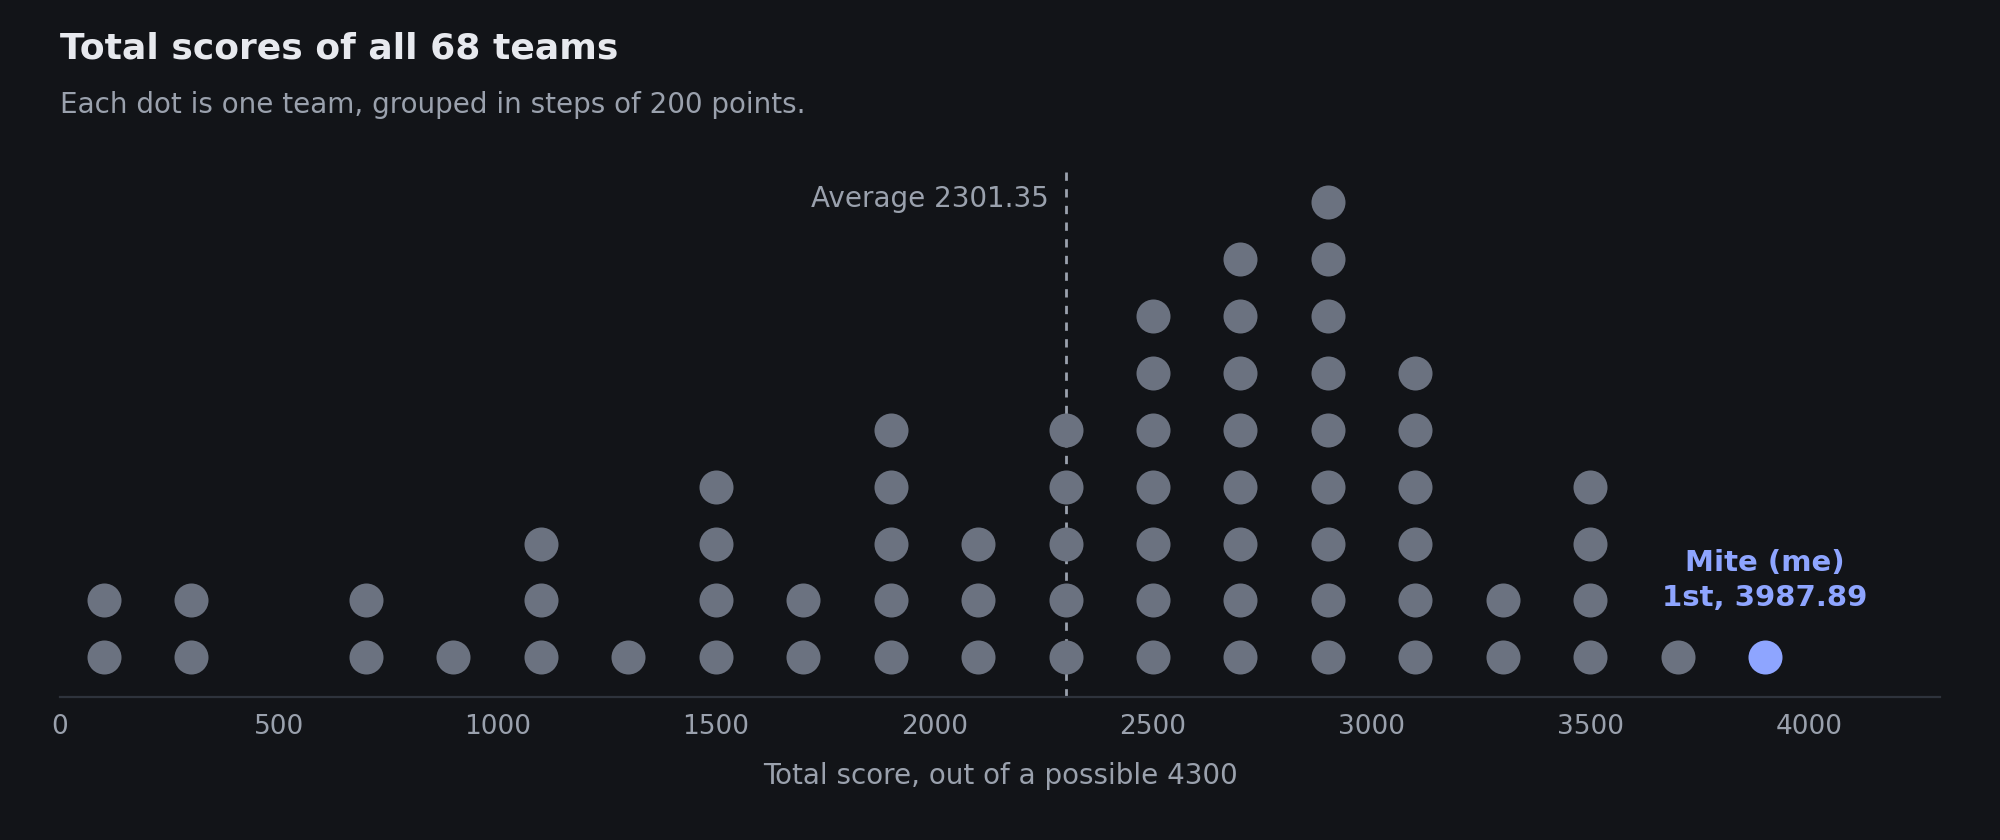
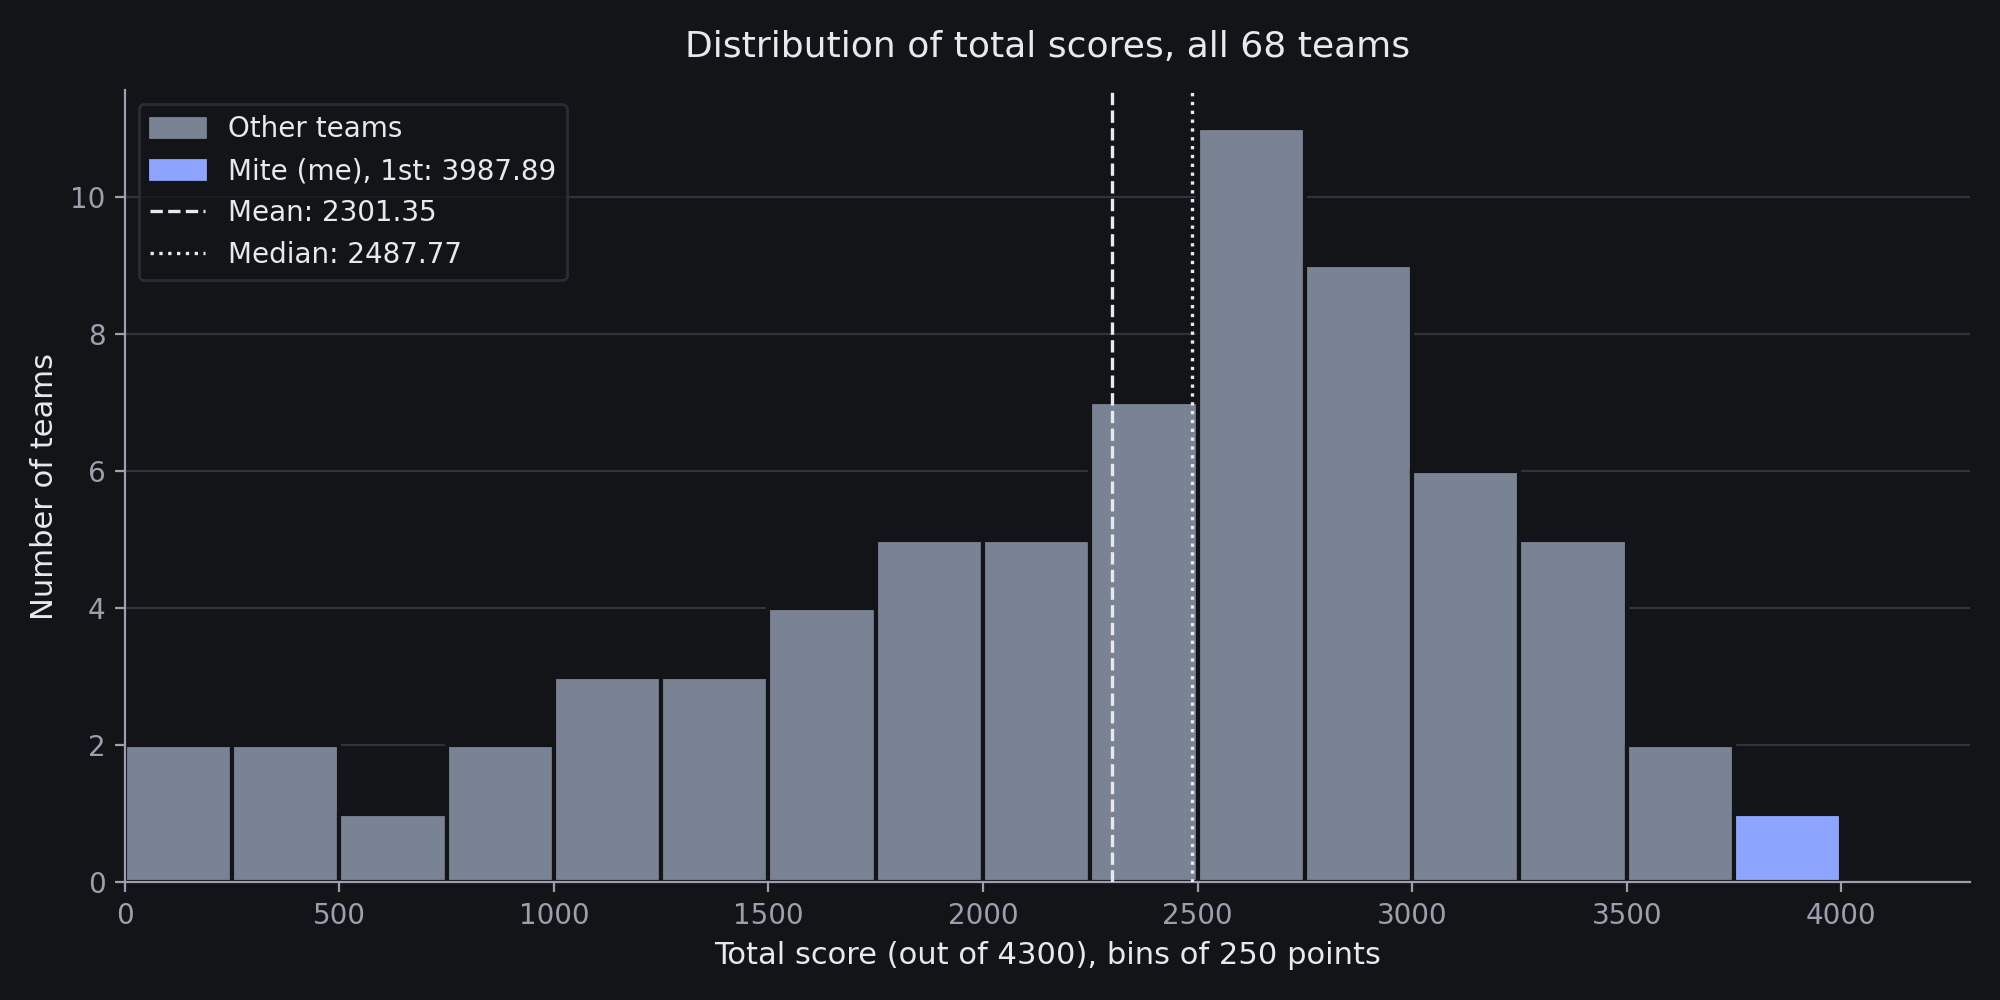
Score distribution as a standard histogram

diff --git a/tools/score-distribution.py b/tools/score-distribution.py
@@ -1,12 +1,16 @@
 #!/usr/bin/env python3
-"""Draw img/scores.png: every team's total from the final leaderboard, one dot per team.
+"""Draw img/scores.png: a histogram of every team's total from the final leaderboard.
 
 Totals transcribed from the leaderboard photo (img/leaderboard.jpg), in rank order. Their mean, 2301.35, matches the
 average the leaderboard showed.
 """
+import statistics
+
 import matplotlib
 matplotlib.use("Agg")
 import matplotlib.pyplot as plt
+from matplotlib.patches import Patch
+from matplotlib.ticker import MaxNLocator
 
 TOTALS = [
     3987.89, 3636.04, 3590.67, 3466.88, 3433.81, 3428.61, 3394.79, 3321.44, 3174.02, 3167.09, 3164.87, 3136.90,
@@ -18,40 +22,40 @@ TOTALS = [
 ]
 assert len(TOTALS) == 68 and round(sum(TOTALS) / 68, 2) == 2301.35
 
-BG, INK, MUTED, RULE, DOT, ACCENT = "#121418", "#e7e9ee", "#9aa1ad", "#2e333c", "#6b7280", "#8ea5ff"
-BIN, MAX = 200, 4300
+BG, INK, MUTED, GRID, BAR, ACCENT = "#121418", "#e7e9ee", "#9aa1ad", "#2e333c", "#7a8394", "#8ea5ff"
+WIDTH, MAX = 250, 4300
+mean, median, mite = statistics.mean(TOTALS), statistics.median(TOTALS), TOTALS[0]
 
-# Stack the dots in each 200 point bin, lowest score at the bottom
-height = {}
-xs, ys = [], []
-for t in sorted(TOTALS):
-    b = int(t // BIN)
-    height[b] = height.get(b, 0) + 1
-    xs.append(b * BIN + BIN / 2)
-    ys.append(height[b])
-
-fig, ax = plt.subplots(figsize=(10, 4.2), dpi=200)
+plt.rcParams.update({"text.color": INK, "axes.labelcolor": INK, "xtick.color": MUTED, "ytick.color": MUTED})
+fig, ax = plt.subplots(figsize=(10, 5), dpi=200)
 fig.patch.set_facecolor(BG)
 ax.set_facecolor(BG)
-ax.scatter(xs[:-1], ys[:-1], s=150, color=DOT, linewidths=0, zorder=2)
-ax.scatter(xs[-1], ys[-1], s=150, color=ACCENT, linewidths=0, zorder=3)  # the top score is last after sorting
 
-mean = sum(TOTALS) / len(TOTALS)
-ax.axvline(mean, color=MUTED, lw=1, ls=(0, (3, 3)), zorder=1)
-ax.text(mean - 40, 9.3, f"Average {mean:.2f}", color=MUTED, fontsize=10, va="top", ha="right")
-ax.text(xs[-1], ys[-1] + 0.8, "Mite (me)\n1st, 3987.89", color=ACCENT, fontsize=10.5, fontweight="bold",
-        ha="center", va="bottom", linespacing=1.3)
+edges = list(range(0, MAX + WIDTH, WIDTH))
+_, _, bars = ax.hist(TOTALS, bins=edges, color=BAR, edgecolor=BG, linewidth=1.5, zorder=2)
+for bar in bars:
+    if bar.get_x() <= mite < bar.get_x() + WIDTH:
+        bar.set_facecolor(ACCENT)  # the bin holding Mite's score, which no other team reached
+
+ax.axvline(mean, color=INK, lw=1.2, ls="--", zorder=3)
+ax.axvline(median, color=INK, lw=1.2, ls=":", zorder=3)
+ax.legend(handles=[
+    Patch(color=BAR, label="Other teams"),
+    Patch(color=ACCENT, label=f"Mite (me), 1st: {mite:.2f}"),
+    plt.Line2D([], [], color=INK, lw=1.2, ls="--", label=f"Mean: {mean:.2f}"),
+    plt.Line2D([], [], color=INK, lw=1.2, ls=":", label=f"Median: {median:.2f}"),
+], loc="upper left", frameon=True, facecolor=BG, edgecolor=GRID, labelcolor=INK, fontsize=10)
 
 ax.set_xlim(0, MAX)
-ax.set_ylim(0.3, 9.6)
 ax.set_xticks(range(0, MAX + 1, 500))
-ax.set_yticks([])
-ax.tick_params(colors=MUTED, labelsize=9.5, length=0, pad=6)
-for side in ("top", "right", "left"):
+ax.yaxis.set_major_locator(MaxNLocator(integer=True))
+ax.grid(axis="y", color=GRID, lw=0.8, zorder=0)
+for side in ("top", "right"):
     ax.spines[side].set_visible(False)
-ax.spines["bottom"].set_color(RULE)
-ax.set_xlabel("Total score, out of a possible 4300", color=MUTED, fontsize=10, labelpad=8)
-fig.text(0.03, 0.93, "Total scores of all 68 teams", color=INK, fontsize=13, fontweight="bold")
-fig.text(0.03, 0.865, "Each dot is one team, grouped in steps of 200 points.", color=MUTED, fontsize=10)
-fig.subplots_adjust(left=0.03, right=0.97, top=0.8, bottom=0.17)
+for side in ("left", "bottom"):
+    ax.spines[side].set_color(MUTED)
+ax.set_xlabel(f"Total score (out of {MAX}), bins of {WIDTH} points", fontsize=11)
+ax.set_ylabel("Number of teams", fontsize=11)
+ax.set_title("Distribution of total scores, all 68 teams", fontsize=13, pad=12)
+fig.tight_layout()
 fig.savefig("img/scores.png", facecolor=BG)

diff --git a/README.md b/README.md
@@ -6,8 +6,8 @@ for two hours on HackerRank: four optimisation problems and a bonus.
 
 ![The final leaderboard on the screen at the event, with Mite first on 3987.89](img/leaderboard.jpg)
 
-![Dot plot of all 68 team totals: 30 teams scored between 2400 and 3200, the average was 2301.35, second place had
-3636.04 and Mite had 3987.89](img/scores.png)
+![Histogram of all 68 team totals in bins of 250 points: mean 2301.35, median 2487.77, the largest bin 2500 to 2750
+with 11 teams, and Mite alone in the 3750 to 4000 bin with 3987.89](img/scores.png)
 
 I wrote very little of the code by hand. Instead I was typing for the whole two hours, steering the AI agents that
 wrote it. For each problem I told them how I thought it should be approached and gave them my intuition for the best
@@ -232,7 +232,7 @@ tools/capture.py     recover inputs that a submission echoed to stderr
 tools/score-distribution.py  draw img/scores.png from the leaderboard totals
 LINKEDIN.md          draft posts
 img/leaderboard.jpg  photo of the final leaderboard at the event
-img/scores.png       every team's total as a dot plot
+img/scores.png       histogram of every team's total
 img/pane-grid.png    screenshot of the browser grid of agent terminals
 docs/                interactive pages for Q1, Q2, Q4, Q5: the solvers in WebAssembly and Pyodide (docs/build.sh)
 ```
